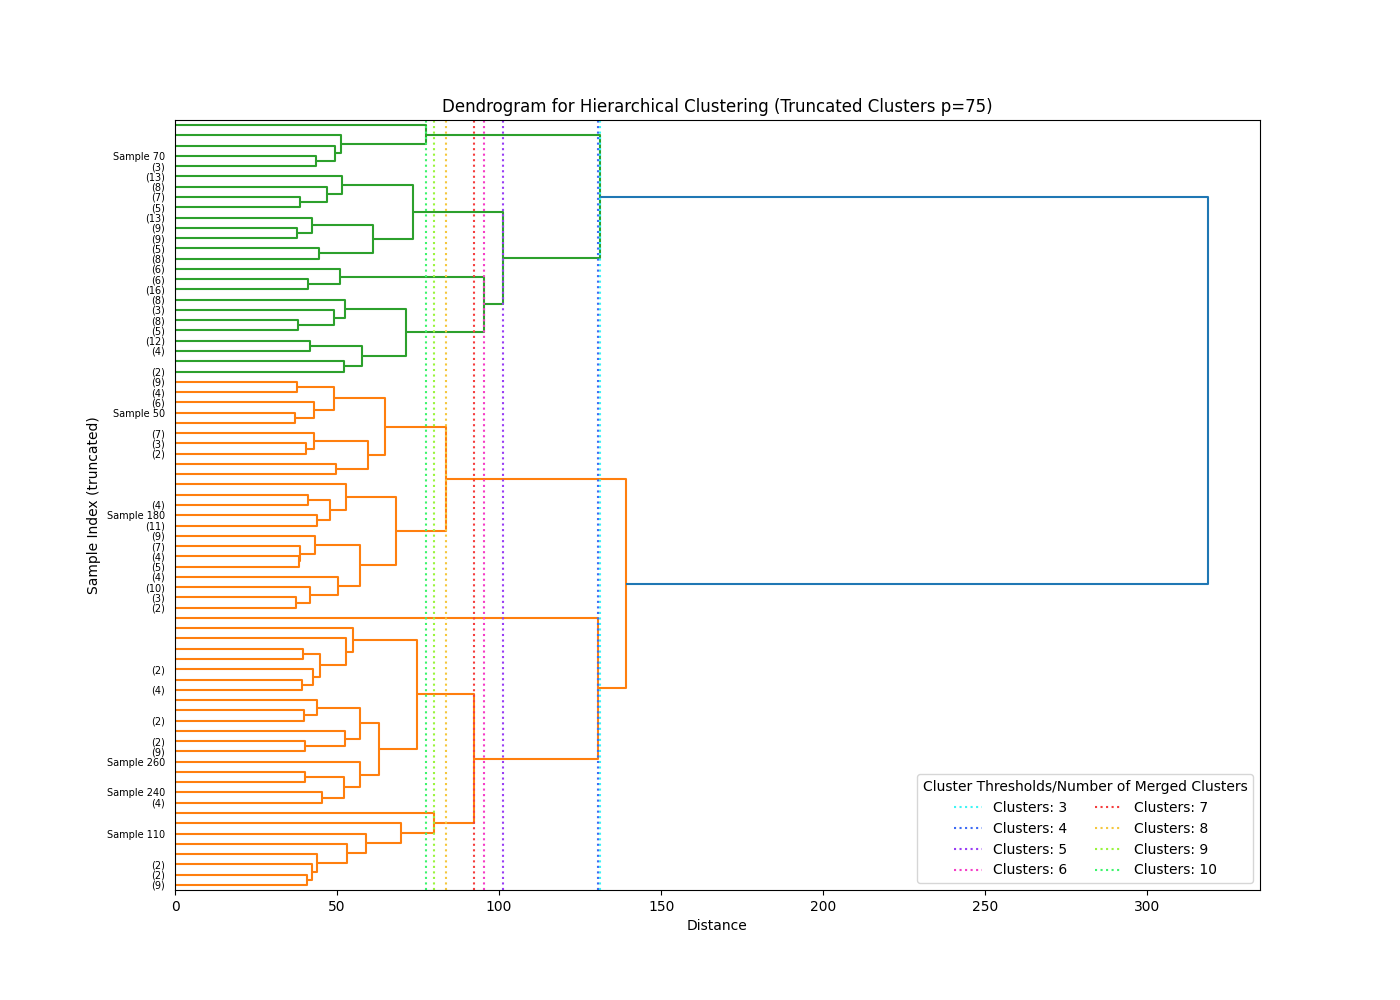
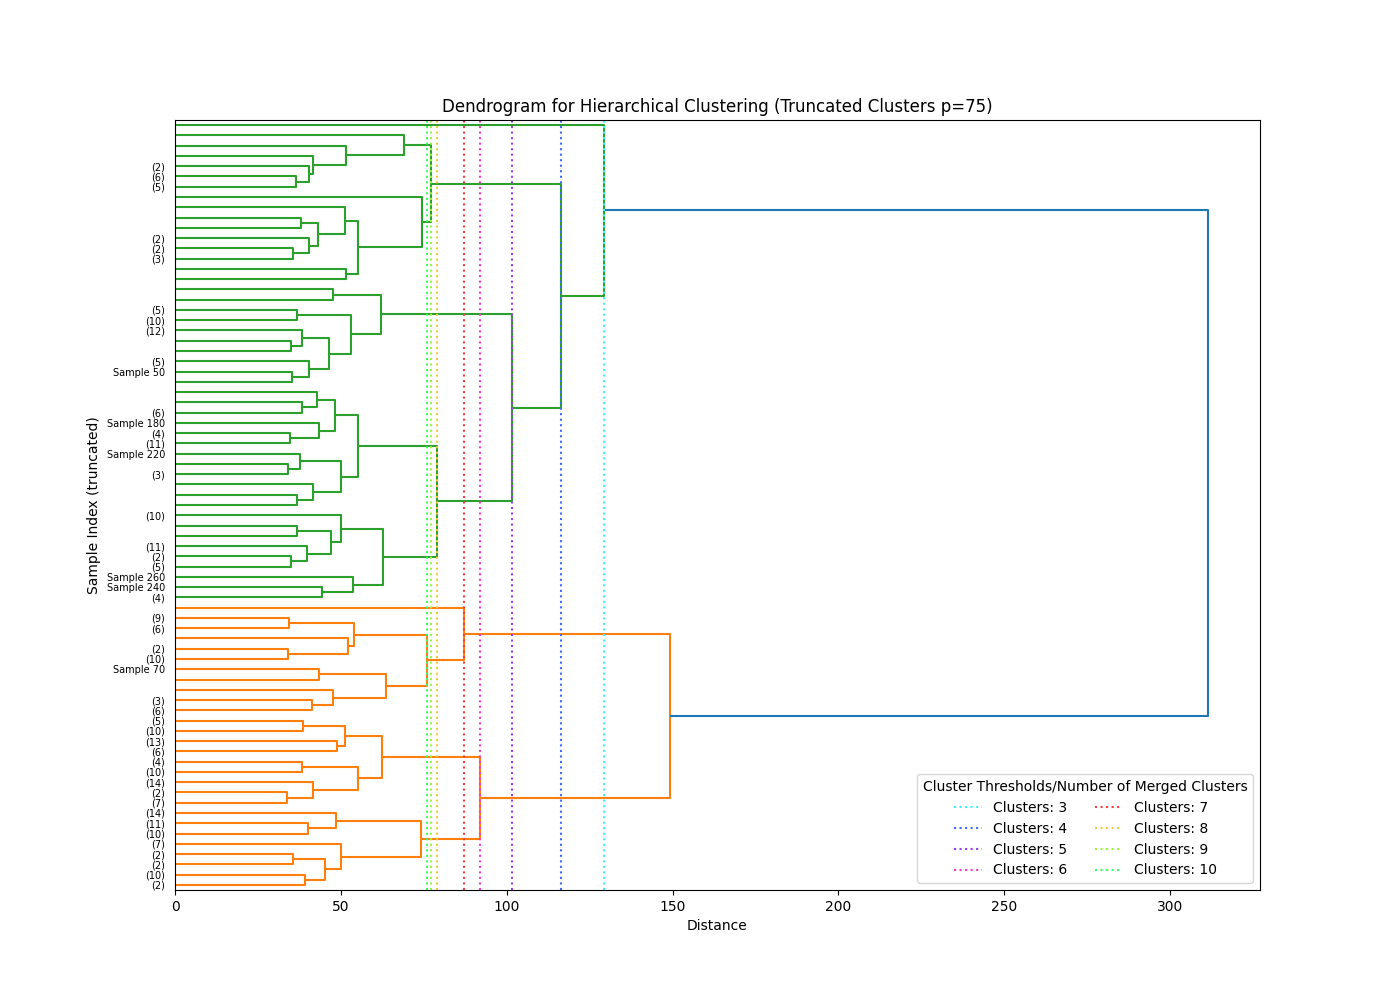
Update custom distance functions to properly calculate features. Refactor BERT embedding extraction and combine functions for clarity and consistency. Update requirements and improve agglomerative summary metrics.

diff --git a/wf_ml_evaluation_agglomerative.py b/wf_ml_evaluation_agglomerative.py
@@ -107,7 +107,7 @@ def plot_dendrogram(linkage_matrix, title="Dendrogram for Hierarchical Clusterin
     # Generate sparse labels for clarity
     labels_list = [f"Sample {i}" if i % label_interval == 0 else "" for i in range(len(linkage_matrix) + 1)]
 
-    # Plot dendrogram
+    # Plot dendrogram   
     plt.figure(figsize=(14, 10))
     dendrogram(
         linkage_matrix,               # Precomputed linkage matrix
@@ -176,89 +176,102 @@ def visualize_clusters(features, labels, title="Hierarchical Cluster Visualizati
     plt.ylabel("PCA Component 2")
     save_path = os.path.join(config.EVALUATION_FOLDER, "Hierarchical_Cluster_Visualization.png")
     plt.savefig(save_path)
-    logging.info(f"Cluster visualization plot saved to: {save_path}")
+    print(f"Cluster visualization plot saved to: {save_path}")
     plt.close()
 
 
-def custom_distance(record1, record2, feature_weights=None):
+def custom_distance(record1, record2, column_names=None, feature_weights=None, start_euclidean_index=124):
     """
     Computes a custom distance metric between two records.
-    
+
     Args:
-        record1 (pd.Series): The first record (row from a DataFrame).
-        record2 (pd.Series): The second record (row from a DataFrame).
-        feature_weights (dict): A dictionary mapping feature names to weights (optional).
-        
+        record1 (np.ndarray): The first record (row from the dataset).
+        record2 (np.ndarray): The second record (row from the dataset).
+        column_names (list): List of column names for the features (optional).
+        feature_weights (dict): A dictionary mapping feature names to weights for custom distances (optional).
+        start_euclidean_index (int): The index at which Euclidean-only features (e.g., embeddings) start.
+
+    Notes:
+        - 124 is the default index for embeddings since that is based on the shape of the data.  
+
     Returns:
         float: The calculated distance between record1 and record2.
     """
     # Initialize distance
     distance = 0.0
 
-    # Define features for custom handling
-    numeric_features = [
-        'original_price_INR', 
-        'percentage_of_original_price', 
-        'discounted_price_INR',
-        'dlc_available', 
-        'awards_count', 
-        'overall_positive_review_percentage', 
-        'overall_review_count',
-        'mean_compound', 
-        'mean_positive', 
-        'mean_negative', 
-        'mean_neutral', 
-        'mean_engagement_ratio',
-        'mean_playtime_percentile_review', 
-        'mean_playtime_percentile_total', 
-        'mean_votes_up', 
-        'mean_votes_funny',
-        'mean_weighted_vote_score', 
-        'median_playtime_at_review', 
-        'mean_review_length', 
-        'mean_word_count'
-    ]
-    # Define the boolean features
-    boolean_features = ['age_restricted']
-    
-    tfidf_features = [col for col in record1.index if col.startswith('genres_tfidf_') or col.startswith('categories_tfidf_')]
+    # Custom handling for named features (if provided)
+    if column_names:
+        numeric_features = [
+            'original_price_INR', 'percentage_of_original_price', 'discounted_price_INR',
+            'dlc_available', 'awards_count', 'overall_positive_review_percentage',
+            'overall_review_count', 'mean_compound', 'mean_positive', 'mean_negative',
+            'mean_neutral', 'mean_engagement_ratio', 'mean_playtime_percentile_review',
+            'mean_playtime_percentile_total', 'mean_votes_up', 'mean_votes_funny',
+            'mean_weighted_vote_score', 'median_playtime_at_review', 'mean_review_length',
+            'mean_word_count'
+        ]
+        boolean_features = ['age_restricted']
 
-    # Compute distances
-    for feature in numeric_features:
-        weight = feature_weights.get(feature, 1.0) if feature_weights else 1.0
-        distance += weight * (record1[feature] - record2[feature]) ** 2 # 
+        # Process numeric and boolean features
+        for feature in numeric_features:
+            index = column_names.index(feature)
+            weight = feature_weights.get(feature, 1.0) if feature_weights else 1.0
+            distance += weight * (record1[index] - record2[index]) ** 2
 
-    for feature in boolean_features:
-        weight = feature_weights.get(feature, 1.0) if feature_weights else 1.0
-        distance += weight * (record1[feature] != record2[feature])  # Binary distance
+        for feature in boolean_features:
+            index = column_names.index(feature)
+            weight = feature_weights.get(feature, 1.0) if feature_weights else 1.0
+            distance += weight * (record1[index] != record2[index])  # Binary distance
 
-    for feature in tfidf_features:
-        weight = feature_weights.get(feature, 1.0) if feature_weights else 1.0
-        distance += weight * (record1[feature] - record2[feature]) ** 2 # 
+    # Compute Euclidean distance for embeddings (from start_euclidean_index onward)
+    distance += np.sum((record1[start_euclidean_index:] - record2[start_euclidean_index:]) ** 2)
 
-    # Return the square root to get the Euclidean distance
     return np.sqrt(distance)
 
 
-def compute_distance_matrix(features, metric='euclidean'):
+
+
+def compute_distance_matrix(features, feature_weights=None, column_names=None):
     """
-    Compute a pairwise distance matrix using an optimized approach.
+    Compute a pairwise distance matrix using a custom distance function.
 
     Args:
         features (np.ndarray): The input feature matrix.
-        metric (str): The distance metric to use (default is 'euclidean').
+        feature_weights (dict): A dictionary mapping feature names to weights for custom distances (optional).
+        column_names (list): List of column names for the features (optional). If None, assume embeddings start dynamically.
 
     Returns:
         np.ndarray: A 2D distance matrix.
     """
     config.log_section("Computing Pairwise Distance Matrix")
-    if not isinstance(features, np.ndarray):
-        features = np.array(features)
+    n_samples, n_features = features.shape
 
-    logging.info(f"Computing pairwise distance matrix using {metric} metric...")
-    # Use scipy's cdist for efficient pairwise distance computation
-    distance_matrix = cdist(features, features, metric=metric)
-    logging.info(f"Distance matrix completed. Final shape: {distance_matrix.shape}")
+    # Dynamically set start index for embeddings if column names are missing
+    if column_names:
+        start_euclidean_index = len(column_names)  # Embeddings start where named features end
+    else:
+        start_euclidean_index = 124  # Default if no column names are provided
+
+    logging.info(f"Start index for Euclidean distance features: {start_euclidean_index}")
+
+    # Initialize distance matrix
+    distance_matrix = np.empty((n_samples, n_samples))
+
+    # Compute pairwise distances
+    logging.info("Computing custom distances...")
+    for i in range(n_samples):
+        for j in range(i + 1, n_samples):  # Upper triangle computation
+            distance_matrix[i, j] = custom_distance(
+                record1=features[i],
+                record2=features[j],
+                column_names=column_names,
+                feature_weights=feature_weights,
+                start_euclidean_index=start_euclidean_index,
+            )
+            distance_matrix[j, i] = distance_matrix[i, j]  # Symmetric
+
+    logging.info(f"Distance matrix completed. Shape: {distance_matrix.shape}")
     return distance_matrix
 
 
@@ -267,8 +280,135 @@ def main():
     train_features_path = config.TRAIN_FEATURES_NPY
     train_features = np.load(train_features_path)  # Use standardized training features
 
-    # Compute distance matrix
-    distance_matrix = compute_distance_matrix(train_features)
+    # Column names of combined dataset features for custom distance computation
+    column_names = [
+        'original_price_INR',
+        'percentage_of_original_price',
+        'discounted_price_INR',
+        'dlc_available',
+        'age_restricted',
+        'awards_count',
+        'overall_positive_review_percentage',
+        'overall_review_count',
+        'overall_review_encoded',
+        'mean_compound',
+        'mean_positive',
+        'mean_negative',
+        'mean_neutral',
+        'mean_engagement_ratio',
+        'mean_playtime_percentile_review',
+        'mean_playtime_percentile_total',
+        'mean_votes_up',
+        'mean_votes_funny',
+        'mean_weighted_vote_score',
+        'median_playtime_at_review',
+        'mean_review_length',
+        'mean_word_count',
+        'genres_tfidf_access',
+        'genres_tfidf_action',
+        'genres_tfidf_adventure',
+        'genres_tfidf_animation',
+        'genres_tfidf_audio',
+        'genres_tfidf_casual',
+        'genres_tfidf_design',
+        'genres_tfidf_development',
+        'genres_tfidf_early',
+        'genres_tfidf_education',
+        'genres_tfidf_free',
+        'genres_tfidf_game',
+        'genres_tfidf_illustration',
+        'genres_tfidf_indie',
+        'genres_tfidf_massively',
+        'genres_tfidf_modeling',
+        'genres_tfidf_movie',
+        'genres_tfidf_multiplayer',
+        'genres_tfidf_play',
+        'genres_tfidf_production',
+        'genres_tfidf_publishing',
+        'genres_tfidf_racing',
+        'genres_tfidf_rpg',
+        'genres_tfidf_simulation',
+        'genres_tfidf_software',
+        'genres_tfidf_sports',
+        'genres_tfidf_strategy',
+        'genres_tfidf_to',
+        'genres_tfidf_training',
+        'genres_tfidf_utilities',
+        'genres_tfidf_video',
+        'genres_tfidf_web',
+        'categories_tfidf_about',
+        'categories_tfidf_achievements',
+        'categories_tfidf_anti',
+        'categories_tfidf_app',
+        'categories_tfidf_available',
+        'categories_tfidf_captions',
+        'categories_tfidf_cards',
+        'categories_tfidf_cheat',
+        'categories_tfidf_cloud',
+        'categories_tfidf_co',
+        'categories_tfidf_collectibles',
+        'categories_tfidf_commentary',
+        'categories_tfidf_controller',
+        'categories_tfidf_cross',
+        'categories_tfidf_editor',
+        'categories_tfidf_enabled',
+        'categories_tfidf_family',
+        'categories_tfidf_features',
+        'categories_tfidf_game',
+        'categories_tfidf_hdr',
+        'categories_tfidf_hl2',
+        'categories_tfidf_in',
+        'categories_tfidf_includes',
+        'categories_tfidf_is',
+        'categories_tfidf_lan',
+        'categories_tfidf_leaderboards',
+        'categories_tfidf_learning',
+        'categories_tfidf_level',
+        'categories_tfidf_limited',
+        'categories_tfidf_mmo',
+        'categories_tfidf_mods',
+        'categories_tfidf_multiplayer',
+        'categories_tfidf_notifications',
+        'categories_tfidf_on',
+        'categories_tfidf_online',
+        'categories_tfidf_only',
+        'categories_tfidf_op',
+        'categories_tfidf_phone',
+        'categories_tfidf_platform',
+        'categories_tfidf_play',
+        'categories_tfidf_player',
+        'categories_tfidf_profile',
+        'categories_tfidf_purchases',
+        'categories_tfidf_pvp',
+        'categories_tfidf_remote',
+        'categories_tfidf_require',
+        'categories_tfidf_screen',
+        'categories_tfidf_sdk',
+        'categories_tfidf_shared',
+        'categories_tfidf_sharing',
+        'categories_tfidf_single',
+        'categories_tfidf_source',
+        'categories_tfidf_split',
+        'categories_tfidf_stats',
+        'categories_tfidf_steam',
+        'categories_tfidf_steamvr',
+        'categories_tfidf_support',
+        'categories_tfidf_supported',
+        'categories_tfidf_tablet',
+        'categories_tfidf_this',
+        'categories_tfidf_together',
+        'categories_tfidf_tracked',
+        'categories_tfidf_trading',
+        'categories_tfidf_turn',
+        'categories_tfidf_tv',
+        'categories_tfidf_valve',
+        'categories_tfidf_vr',
+        'categories_tfidf_workshop'
+    ] 
+
+    # Compute custom distance matrix
+    logging.info("Computing custom distance matrix...")
+    distance_matrix = compute_distance_matrix(features=train_features, column_names=column_names)
 
     # Evaluate Agglomerative Clustering
     evaluation_results, linkage_matrix, train_labels, model = evaluate_agglomerative_clustering(

diff --git a/wf_ml_preprocessing.py b/wf_ml_preprocessing.py
@@ -60,6 +60,7 @@ def compute_bert_embeddings(texts, tokenizer, model, max_length=512, batch_size=
 
 
 def extract_bert_embeddings():
+    """Extract BERT embeddings for Steam reviews and save them to a .npy file. This is used to load it later."""
     config.log_section("BERT EMBEDDING EXTRACTION")
     
     # Save embeddings as a .npy file
@@ -98,9 +99,9 @@ def extract_bert_embeddings():
 
 
 
-def combine_bert_with_steam_data(include_vectorized_features=False, aggregation_method='mean'):
+def combine_all_steam_data(include_vectorized_features=False, aggregation_method='mean'):
     """
-    Combines BERT embeddings, sentiment scores, review features, and store metadata
+    Combines sentiment scores, review features, and store metadata
     for clustering, with optional inclusion of vectorized genres and categories.
 
     Args:
@@ -236,14 +237,12 @@ def combine_bert_with_steam_data(include_vectorized_features=False, aggregation_
 
 def prepare_clustering_dataset():
     """
-    Combines BERT embeddings with store data for clustering.
+    Combines store data with review data for clustering.
     """
     config.log_section("PREPARING CLUSTERING DATASET")
 
-    # Combine BERT embeddings with store data
-    # combined_data_mean = combine_bert_with_steam_data(aggregation_method='mean') 
-    # logging.info(f"Prepared clustering dataset with shape: {combined_data_mean.shape}") 
-    combined_data_vectorized_mean = combine_bert_with_steam_data(include_vectorized_features=True, aggregation_method='mean') 
+    # Prepare clustering dataset with mean aggregation
+    combined_data_vectorized_mean = combine_all_steam_data(include_vectorized_features=True, aggregation_method='mean') 
     logging.info(f"Prepared clustering dataset with shape: {combined_data_vectorized_mean.shape}")
 
     # print(f"combined_data stats\n: {combined_data_mean.drop(columns=['app_id']).describe().round(2)}")
